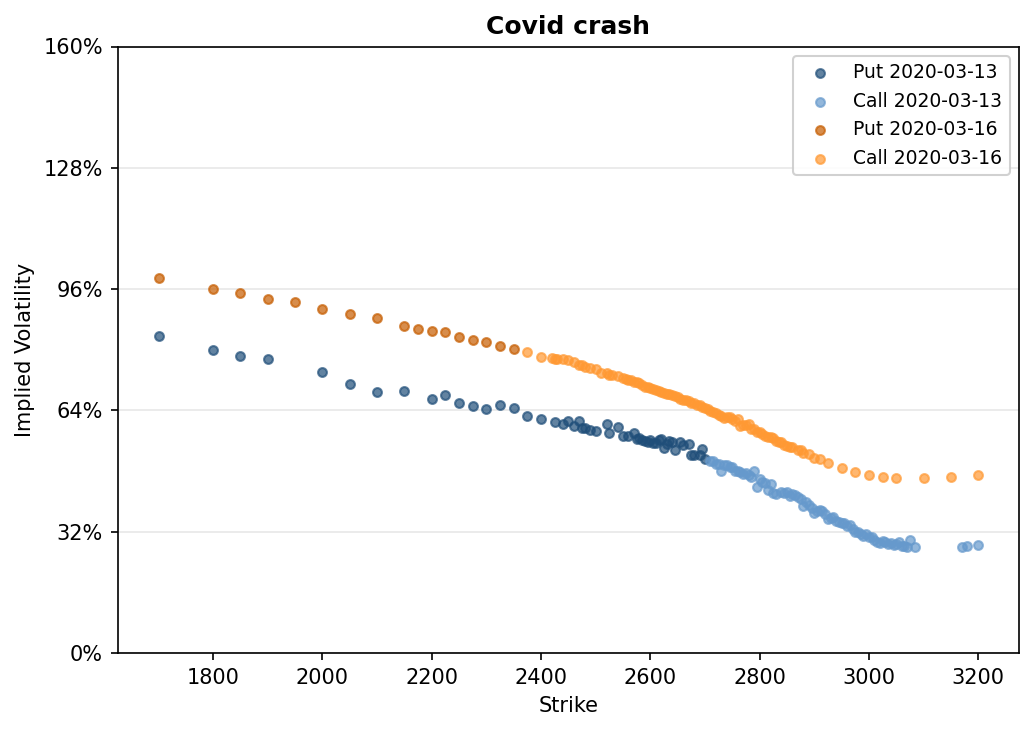
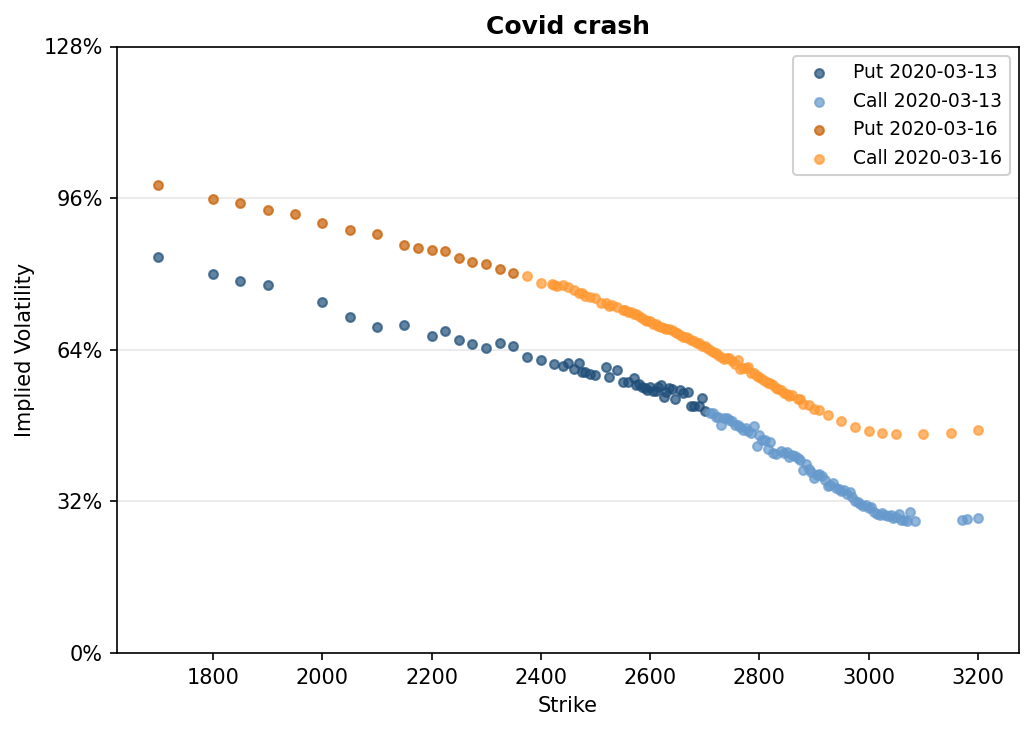
Skew chart: cap y-axis at 128% (was 160%)

diff --git a/src/event_study_plots.py b/src/event_study_plots.py
@@ -50,9 +50,9 @@ def plot_skew_panel(ax, t0_res: dict, t1_res: dict,
         ax.scatter(ks, ys, s=SKEW_MARKER_SIZE, color=color,
                    alpha=SKEW_ALPHA, label=label, zorder=2)
 
-    ax.set_yticks([0, 32, 64, 96, 128, 160])
-    ax.set_yticklabels(["0%", "32%", "64%", "96%", "128%", "160%"])
-    ax.set_ylim(0, 160)
+    ax.set_yticks([0, 32, 64, 96, 128])
+    ax.set_yticklabels(["0%", "32%", "64%", "96%", "128%"])
+    ax.set_ylim(0, 128)
     ax.set_xlabel("Strike")
     ax.set_ylabel("Implied Volatility")
     ax.set_title(title, fontsize=12, fontweight="bold")
